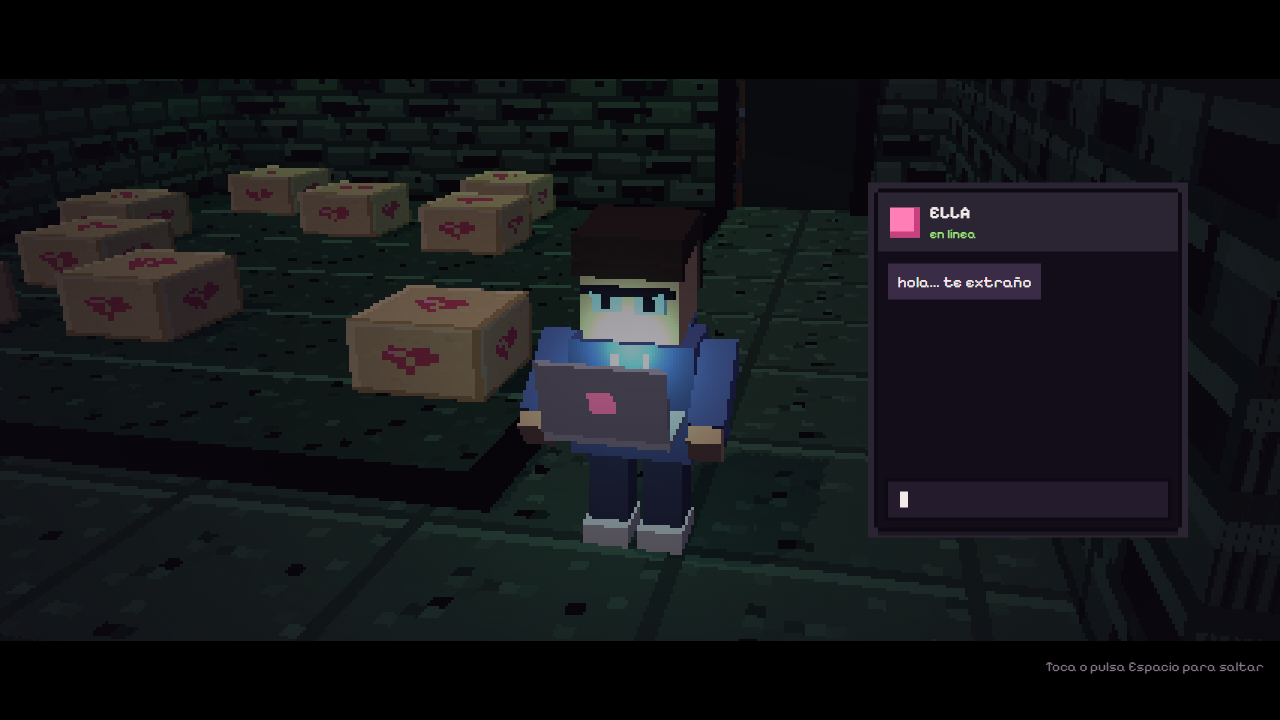
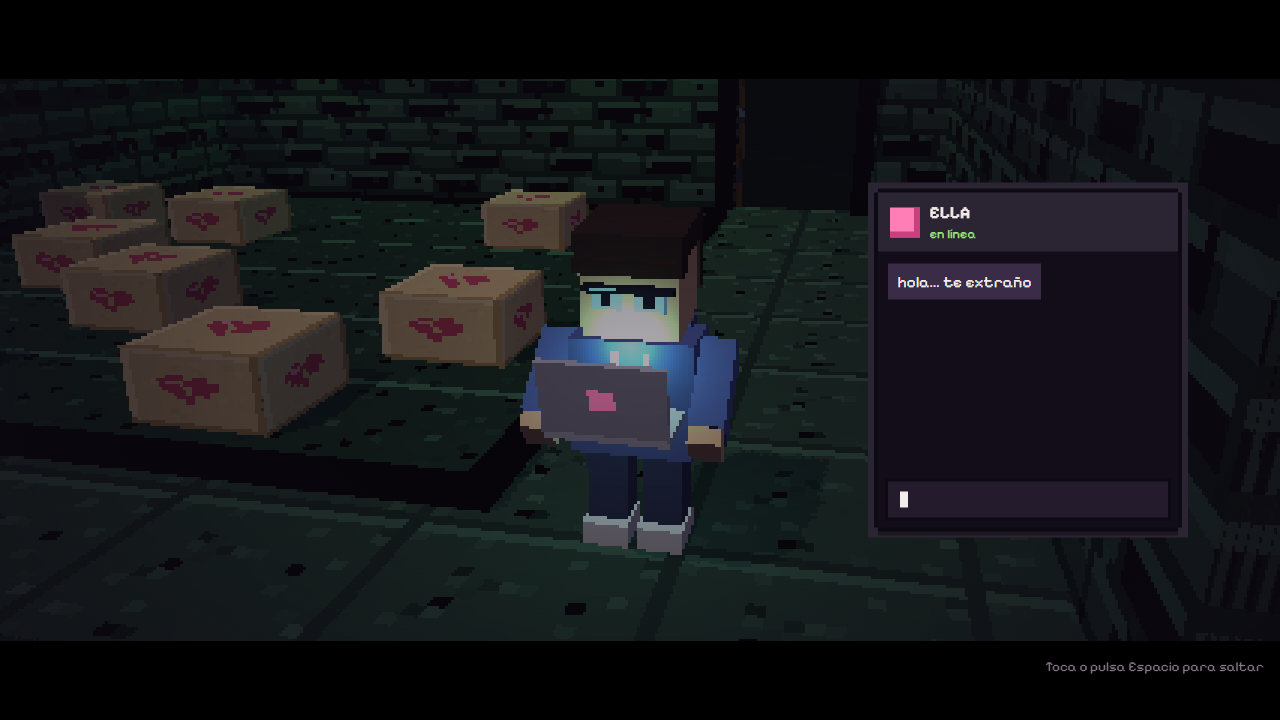
Menu a pantalla completa con portada 3D y creditos, chistes sin repeticion y musica mas fuerte

Changed region(s): [[0.0, 0.2139, 0.5625, 0.6111], [0.4375, 0.6111, 0.5312, 0.6417], [0.4688, 0.7028, 0.5, 0.7333]]

diff --git a/js/main.js b/js/main.js
@@ -9,7 +9,7 @@ import { createPlayer } from './player.js';
 import { Particles, Shake } from './fx.js';
 import { sfx, music, unlockAudio, isMuted, setMuted } from './audio.js';
 import { tween, wait, updateTweens, clearTweens, linear, easeInOut } from './tween.js';
-import { MEMORIES, SUCCESS_LINES, ERROR_LINES, CHAOS_MESSAGES, PRACTICE, ENDINGS, pick } from './story.js';
+import { MEMORIES, SUCCESS_LINES, ERROR_LINES, CHAOS_MESSAGES, PRACTICE, ENDINGS, pick, makeBag } from './story.js';
 import { SUS_ITEMS, susScore, susLabel } from './sus.js';
 import { Cinema } from './cinematics.js';
 import * as stats from './stats.js';
@@ -50,6 +50,20 @@ const cam = { zoom: 0, mode: 'normal', angle: 0 };
 const camTarget = new THREE.Vector3();
 
 function placeCamera(z) {
+  if (cam.mode === 'menu') {
+    // Toma de portada: Kevin en primer plano, a la derecha en escritorio y arriba en el celular.
+    const k = player.group.position;
+    const portrait = camera.aspect < 0.85;
+    const a = Math.sin(clock.elapsedTime * 0.25) * 0.35 - 0.15;
+    const r = portrait ? 7.4 : 5.6;
+    camera.position.set(k.x + Math.sin(a) * r, portrait ? 3.2 : 2.2, k.z + Math.cos(a) * r);
+    const shift = portrait ? 0 : 2.6; // desplaza el encuadre para dejar sitio al menú
+    camTarget.set(k.x - Math.cos(a) * shift, portrait ? -1.5 : 1.6, k.z + Math.sin(a) * shift);
+    camera.lookAt(camTarget);
+    sun.position.set(k.x - 6, 15, k.z + 8);
+    sun.target.position.set(k.x, 0, k.z);
+    return;
+  }
   if (cam.mode === 'orbit') {
     const k = player.group.position;
     const r = camera.aspect < 0.85 ? 6.5 : 4.6;
@@ -101,6 +115,43 @@ const hintArrow = new THREE.Group();
   hintArrow.scale.setScalar(1.6);
   hintArrow.visible = false;
   scene.add(hintArrow);
+}
+
+// Corazón roto gigante del menú: dos mitades de vóxeles que se separan y se juntan.
+const menuHeart = new THREE.Group();
+{
+  const rows = ['0110110', '1111111', '1111111', '0111110', '0011100', '0001000'];
+  const crack = new Set(['3,0', '2,1', '3,2', '3,3', '4,4']);
+  const geo = new THREE.BoxGeometry(0.19, 0.19, 0.19);
+  const red = new THREE.MeshBasicMaterial({ color: 0xc8405e });
+  const pink = new THREE.MeshBasicMaterial({ color: 0xff7eb6 });
+  const halves = [new THREE.Group(), new THREE.Group()];
+  rows.forEach((row, y) => [...row].forEach((bit, x) => {
+    if (bit !== '1' || crack.has(`${x},${y}`)) return;
+    const m = new THREE.Mesh(geo, y === 1 && x === 1 ? pink : red);
+    m.position.set((x - 3) * 0.19, (2.5 - y) * 0.19, 0);
+    // la grieta va en zigzag: lo que queda a su izquierda es la mitad izquierda
+    const crackX = [3, 2, 3, 3, 4, 4][y];
+    halves[x < crackX ? 0 : 1].add(m);
+  }));
+  menuHeart.add(...halves);
+  menuHeart.userData.halves = halves;
+  menuHeart.visible = false;
+  scene.add(menuHeart);
+}
+
+function updateMenuHeart(t) {
+  menuHeart.visible = cam.mode === 'menu';
+  if (!menuHeart.visible) return;
+  const k = player.group.position;
+  menuHeart.position.set(k.x - 0.4, 2.75 + Math.sin(t * 1.6) * 0.1, k.z - 1.2);
+  menuHeart.rotation.y = Math.sin(t * 0.5) * 0.3;
+  const gap = 0.06 + (Math.sin(t * 1.3) * 0.5 + 0.5) * 0.12;
+  const [left, right] = menuHeart.userData.halves;
+  left.position.x = -gap;
+  right.position.x = gap;
+  left.rotation.z = gap * 0.5;
+  right.rotation.z = -gap * 0.5;
 }
 
 function buildRoom(index) {
@@ -227,7 +278,7 @@ function showTitle() {
   clearTweens();
   game.state = 'title';
   cinema.abort();
-  Object.assign(cam, { zoom: 0, mode: 'normal' });
+  Object.assign(cam, { zoom: 0, mode: 'menu' });
   hideQuip();
   clearNotifs();
   hideThought();
@@ -250,6 +301,7 @@ function startGame(mode) {
   hideQuip();
   clearNotifs();
   hideThought();
+  shuffleLines();
   resetWorld(0);
   game.introShown = -1;
   game.participant = $('participant').value.trim();
@@ -372,12 +424,18 @@ function chaosSlots(length) {
   return slots;
 }
 
-let lastChaos = '';
+// Frases sin repetición: cada partida nueva vuelve a barajar.
+const lines = {};
+function shuffleLines() {
+  lines.success = makeBag(SUCCESS_LINES);
+  lines.error = makeBag(ERROR_LINES);
+  lines.chaos = makeBag(CHAOS_MESSAGES);
+}
+shuffleLines();
+
 function chaosNotify() {
   const box = $('notifs');
-  let text = pick(CHAOS_MESSAGES);
-  if (text === lastChaos) text = pick(CHAOS_MESSAGES);
-  lastChaos = text;
+  const text = lines.chaos();
   const n = document.createElement('div');
   n.className = 'notif';
   n.innerHTML = '<span class="avatar"></span><strong>ELLA <small>ahora</small></strong><p></p>';
@@ -531,7 +589,7 @@ async function finishTrial(correct) {
     if (!alive(token)) return;
     game.room.setAllBlocks('win');
     setMessage('¡Correcto!', 'ok');
-    showQuip(pick(SUCCESS_LINES), 'ok');
+    showQuip(lines.success(), 'ok');
     think('!', 1.4);
     await wait(1.2);
     if (!alive(token)) return;
@@ -555,7 +613,7 @@ async function finishTrial(correct) {
   shake.kick(0.35);
   player.shake();
   setMessage('Ese no era', 'bad');
-  showQuip(pick(ERROR_LINES), 'bad');
+  showQuip(lines.error(), 'bad');
   think('heart', 2);
   await wait(1.3);
   if (!alive(token)) return;
@@ -911,6 +969,7 @@ function frame() {
   // La música baja mientras el jugador memoriza y responde.
   music.duck(game.state === 'showing' || game.state === 'input' ? 0.2 : 1);
   updateThought();
+  updateMenuHeart(clock.elapsedTime);
   renderer.render(scene, camera);
   if (firstFrame) {
     firstFrame = false;

diff --git a/css/style.css b/css/style.css
@@ -167,6 +167,41 @@ button, input { font: inherit; color: inherit; }
   overflow-y: auto;
 }
 
+/* ---------- menú principal a pantalla completa ---------- */
+.screen-menu {
+  display: grid;
+  grid-template-rows: 1fr auto;
+  align-items: center;
+  padding: 0;
+  background: linear-gradient(90deg, rgba(14, 10, 20, 0.95) 0%, rgba(14, 10, 20, 0.82) 34%, rgba(14, 10, 20, 0) 62%);
+}
+.menu {
+  width: min(540px, 100%);
+  padding: clamp(24px, 5vh, 56px) clamp(20px, 5vw, 72px) 24px;
+}
+.menu .title { font-size: clamp(4rem, 9vw, 6.5rem); }
+.menu .title-sub { font-size: clamp(1.5rem, 3.4vw, 2.2rem); }
+.menu .lead-small { display: none; }
+.menu .actions { flex-direction: row; flex-wrap: wrap; }
+.menu .actions .btn { flex: 1 1 200px; text-align: center; }
+.credits {
+  position: sticky; /* siempre visible al pie del menú, aunque se haga scroll */
+  bottom: 0;
+  z-index: 1;
+  display: flex;
+  flex-wrap: wrap;
+  align-items: center;
+  gap: 6px 28px;
+  padding: 14px clamp(20px, 5vw, 72px) max(14px, env(safe-area-inset-bottom));
+  background: rgba(14, 10, 20, 0.92);
+  border-top: 4px solid var(--line);
+  font-size: 0.95rem;
+  color: var(--ink-dim);
+}
+.credits p { margin: 0; }
+.credits strong { color: var(--gold); font-weight: 700; }
+.credits-uni { margin-left: auto !important; color: var(--ink); font-weight: 500; }
+
 .panel {
   width: min(470px, 100%);
   background: var(--stone);
@@ -632,6 +667,18 @@ button, input { font: inherit; color: inherit; }
     padding: 16px;
   }
   .panel { padding: 20px; }
+  /* En el celular, Kevin y el corazón quedan arriba y el menú debajo */
+  .screen-menu {
+    display: block;
+    padding: 0;
+    background: linear-gradient(180deg, rgba(14, 10, 20, 0) 0%, rgba(14, 10, 20, 0) 26vh, rgba(14, 10, 20, 0.9) 40vh, rgba(14, 10, 20, 0.97) 100%);
+    background-attachment: local; /* el degradado acompaña al contenido al hacer scroll */
+  }
+  .menu { padding: 38vh 20px 20px; width: 100%; }
+  .menu .title { font-size: 4.2rem; }
+  .menu .title-sub { font-size: 1.5rem; }
+  .credits { flex-direction: column; align-items: flex-start; gap: 2px; padding: 10px 20px max(12px, env(safe-area-inset-bottom)); font-size: 0.82rem; background: var(--night); }
+  .credits-uni { margin-left: 0 !important; }
   .chip { min-width: 0; padding: 6px 10px; }
   .chip strong { font-size: 1.4rem; }
   .chip-sub { display: none; }

diff --git a/js/story.js b/js/story.js
@@ -47,12 +47,16 @@ export const MEMORIES = [
   },
 ];
 
+// 8 frases para 8 recuerdos: con makeBag ninguna se repite dentro de una partida.
 export const SUCCESS_LINES = [
   'Commit exitoso: una mentira menos.',
   'La puerta se abrió. Su celular, nunca.',
   'Build passing. Brayan sigue en los logs.',
   'Merge sin conflictos. Todo lo contrario a su historial de chats.',
-  'Test aprobado. Ella también "salía con las chicas".',
+  'Bug encontrado y corregido. Se llamaba Brayan.',
+  'Deploy exitoso. Kevin 1, excusas 0.',
+  'Memoria intacta. Su "primo" no puede decir lo mismo.',
+  'Acceso concedido. Ella nunca te dio la contraseña de su celular.',
 ];
 
 export const ERROR_LINES = [
@@ -101,3 +105,22 @@ export const ENDINGS = {
 };
 
 export const pick = (list) => list[Math.floor(Math.random() * list.length)];
+
+// "Bolsa" de frases: las entrega en orden aleatorio sin repetir ninguna hasta usarlas
+// todas, y evita que la última de una vuelta sea la primera de la siguiente.
+export function makeBag(list, rng = Math.random) {
+  let bag = [];
+  let last;
+  return function next() {
+    if (!bag.length) {
+      bag = [...list];
+      for (let i = bag.length - 1; i > 0; i--) {
+        const j = Math.floor(rng() * (i + 1));
+        [bag[i], bag[j]] = [bag[j], bag[i]];
+      }
+      if (bag.length > 1 && bag[0] === last) bag.push(bag.shift());
+    }
+    last = bag.shift();
+    return last;
+  };
+}

diff --git a/tests/corsi.test.js b/tests/corsi.test.js
@@ -6,7 +6,7 @@ import {
   generateLayout, spanRating, summarizeTrials, BLOCK_COUNT, START_SPAN, MAX_SPAN,
 } from '../js/corsi.js';
 import { susScore, susLabel } from '../js/sus.js';
-import { MEMORIES } from '../js/story.js';
+import { MEMORIES, SUCCESS_LINES, makeBag } from '../js/story.js';
 
 test('la secuencia tiene la longitud pedida y no repite bloques', () => {
   const rng = createRng(42);
@@ -81,6 +81,24 @@ test('SUS: etiquetas de interpretación', () => {
   assert.equal(susLabel(75), 'Buena');
   assert.equal(susLabel(60), 'Aceptable');
   assert.equal(susLabel(40), 'Necesita mejoras');
+});
+
+test('los chistes de acierto no se repiten en una partida de 8 recuerdos', () => {
+  for (let seed = 1; seed <= 20; seed++) {
+    const next = makeBag(SUCCESS_LINES, createRng(seed));
+    const seen = Array.from({ length: MEMORIES.length }, () => next());
+    assert.equal(new Set(seen).size, MEMORIES.length);
+  }
+});
+
+test('la bolsa nunca entrega dos frases iguales seguidas, ni entre vueltas', () => {
+  const next = makeBag(['a', 'b', 'c'], createRng(3));
+  let prev = next();
+  for (let i = 0; i < 300; i++) {
+    const cur = next();
+    assert.notEqual(cur, prev);
+    prev = cur;
+  }
 });
 
 test('hay un recuerdo por cada sala del juego', () => {

diff --git a/index.html b/index.html
@@ -98,8 +98,8 @@
   </div>
 
   <!-- Pantalla de inicio -->
-  <section id="screen-title" class="screen" hidden>
-    <div class="panel">
+  <section id="screen-title" class="screen screen-menu" hidden>
+    <div class="menu">
       <h1 class="title">404<span class="title-sub">Amor no encontrado</span></h1>
       <p class="lead">Kevin, programador junior, quedó en visto para siempre. Para olvidarla, primero tiene que recordar todas sus mentiras.</p>
       <p class="lead lead-small">Cada sala es un recuerdo. Mira qué cajas se encienden, tócalas en el orden correcto y la puerta se abrirá.</p>
@@ -124,6 +124,11 @@
       </details>
       <div class="records" id="records"></div>
     </div>
+    <footer class="credits">
+      <p>CREADO POR: <strong>OLIVERA NOVOA, PEDRO JOAQUIN</strong></p>
+      <p>CÓDIGO: <strong>U22222753</strong></p>
+      <p class="credits-uni">Universidad Tecnológica del Perú</p>
+    </footer>
   </section>
 
   <!-- Pantalla final -->

diff --git a/js/audio.js b/js/audio.js
@@ -86,7 +86,7 @@ const MELODY = [ // una nota por negra, -1 = silencio
   [76, 74, 72, 71], [72, -1, 69, -1], [67, 69, 72, 74], [71, -1, -1, -1],
 ];
 const EIGHTH = 60 / 84 / 2;
-const MUSIC_VOLUME = 0.07;
+const MUSIC_VOLUME = 0.18;
 
 let musicGain = null;
 let musicTimer = 0;

diff --git a/README.md b/README.md
@@ -4,6 +4,8 @@ Juego web 3D con estética pixel art para entrenar la **memoria de trabajo visoe
 
 **Jugar en línea:** https://olivionperu.github.io/mnemo-corsi/
 
+**Creado por:** Olivera Novoa, Pedro Joaquin (código U22222753), Universidad Tecnológica del Perú.
+
 Kevin, programador junior, quedó en visto para siempre. Para olvidarla, primero tiene que recordar todas sus mentiras. Cada sala es un recuerdo de la relación con una de las típicas excusas de ELLA ("Solo es un amigo", "Es mi primo", "Me quedé sin batería", "Me hackearon el WhatsApp"…). En cada sala, unas cajas de recuerdos se encienden en secuencia. Si el jugador las toca en el orden correcto, la puerta se abre y Kevin avanza al siguiente recuerdo, donde la secuencia tiene una caja más.
 
 ## Cómo se juega
